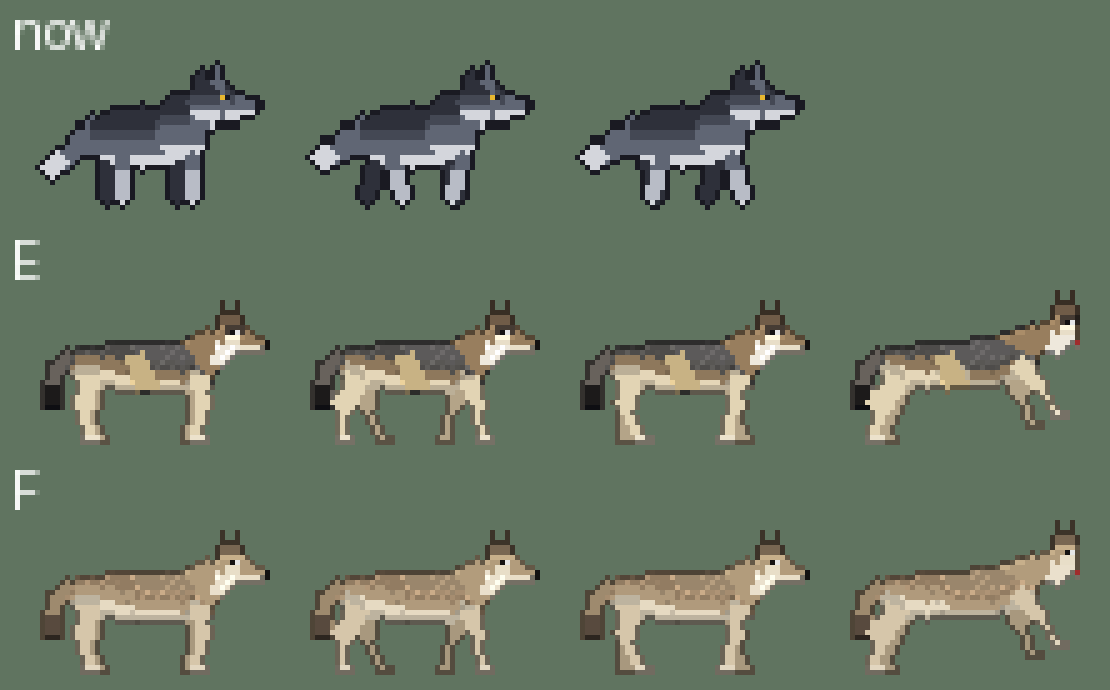
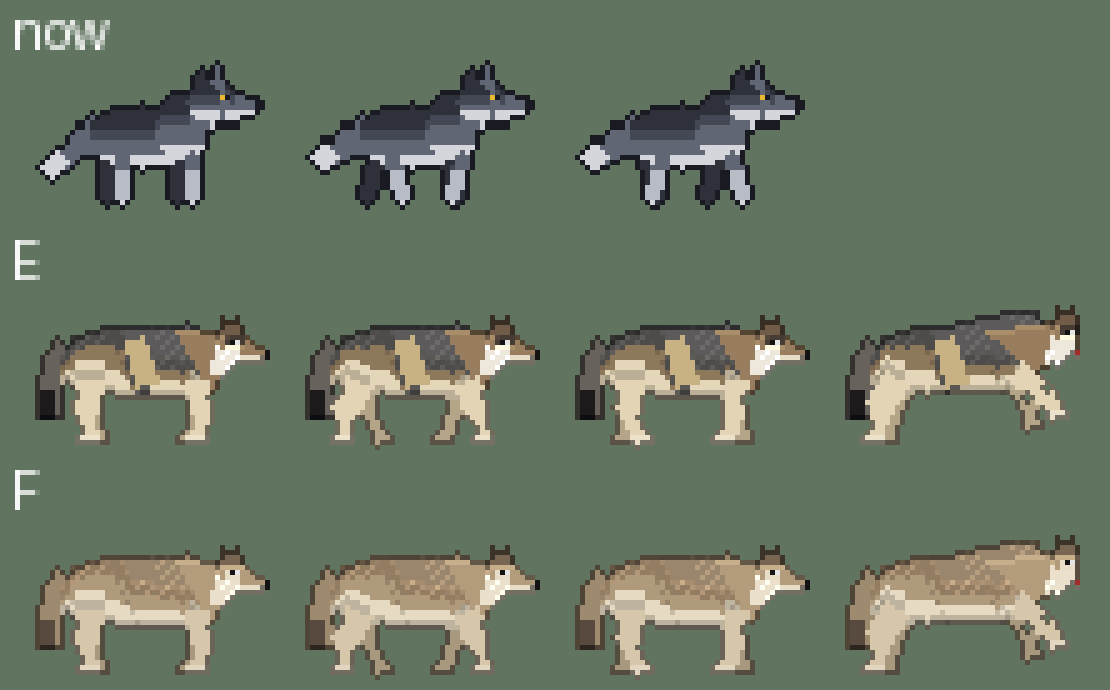
灰狼候選 E、F 改厚實（胸深背寬、腿與尾巴粗）、頭放低到背線附近
Claude-Session: https://claude.ai/code/session_01HkqM82v9towmCBuEomSQC3

diff --git a/arts/art_wolf_v2_2026-10-13/gen_wolf_variants.py b/arts/art_wolf_v2_2026-10-13/gen_wolf_variants.py
@@ -12,16 +12,16 @@ from PIL import Image, ImageDraw
 ARCH = 'arts/art_wolf_v2_2026-10-13/'
 
 BASE = dict(
-    # 正常灰狼的均衡比例：身體長、頭約身體長的四成且和背部差不多高、脖子短粗、耳朵小、腿長約等於胸深
+    # 正常灰狼的均衡比例、厚實：胸深背寬、腿與尾巴粗、脖子粗短，頭低（頭頂約和背線同高）
     frame=(48, 32), ground=30, split=28, file='wolf',
-    body=[(7, 15), (9, 11), (15, 10), (26, 10), (31, 9), (35, 10), (37, 15), (36, 19), (30, 20), (17, 20), (9, 19)],
-    neck=[(30, 10), (35, 6), (38, 11), (36, 17)],
-    head=[(35, 7), (38, 5), (41, 5), (43, 6), (46, 8), (47, 9), (46, 11), (42, 11), (38, 11), (35, 10)],
-    jaw=[(42, 10), (46, 10), (45, 11), (42, 11)],
-    ears=[[(37, 6), (38, 1), (40, 5)], [(39, 5), (41, 1), (42, 5)]],
-    eye=(41, 7), nose=(47, 9),
-    legs=[('far', (31, 17), 4, 3, 1), ('far', (13, 17), 5, 3, -1), ('near', (33, 17), 4, 3, 1), ('near', (11, 17), 5, 3, -1)],
-    paw=2, tail=[(8, 12), (5, 15), (4, 19), (4, 23)], tail_w=5, tail_tip=3)
+    body=[(6, 14), (8, 9), (14, 7), (26, 7), (31, 6), (36, 8), (38, 13), (37, 19), (31, 21), (17, 21), (9, 20), (6, 18)],
+    neck=[(29, 8), (36, 7), (39, 14), (36, 20)],
+    head=[(35, 9), (38, 7), (41, 7), (43, 8), (46, 10), (47, 11), (46, 13), (42, 13), (38, 14), (35, 12)],
+    jaw=[(42, 12), (46, 12), (45, 13), (42, 13)],
+    ears=[[(37, 8), (38, 4), (40, 7)], [(39, 7), (41, 4), (42, 7)]],
+    eye=(41, 9), nose=(47, 11),
+    legs=[('far', (31, 18), 4, 4, 1), ('far', (13, 18), 5, 4, -1), ('near', (33, 18), 5, 4, 1), ('near', (11, 18), 6, 4, -1)],
+    paw=2, tail=[(7, 11), (4, 15), (3, 20), (3, 25)], tail_w=6, tail_tip=3)
 
 
 def shift(sp, dx):
@@ -60,8 +60,8 @@ def variant(colors, belly, back, patches, **extra):
 
 
 # 臉頰與喉部的淡色（跟著頭）、眉上的深色（跟著頭）
-CHEEK = [(37, 9), (41, 10), (41, 11), (38, 14), (36, 13)]
-BROW = [(39, 6), (42, 6), (42, 7), (39, 7)]
+CHEEK = [(37, 10), (41, 11), (41, 13), (38, 16), (36, 15)]
+BROW = [(39, 8), (42, 8), (42, 9), (39, 9)]
 
 VARIANTS = {
     'A': variant({BODY: (150, 126, 96), HEAD: (138, 118, 92), EAR: (96, 84, 72), LEG: (222, 206, 176), FARLEG: (176, 160, 134),
@@ -87,13 +87,13 @@ VARIANTS = {
 
 # E：偏概念圖 1（對比強：深灰背鞍、褐色體側帶米黃色塊、米白四肢、白頰、耳緣深色、尾巴深色帶黑尖）
 # F：偏概念圖 3（柔和：灰褐偏黃、淡色腹部與四肢、背部稍深、白頰）
-SADDLE = [(20, 10), (31, 9), (35, 10), (36, 13), (30, 14), (22, 13)]
+SADDLE = [(18, 7), (31, 6), (36, 8), (37, 12), (30, 13), (20, 11)]
 VARIANTS = {
     'E': lower_head(variant({BODY: (142, 120, 92), HEAD: (152, 126, 94), EAR: (112, 92, 72), LEG: (226, 212, 180),
                              FARLEG: (180, 164, 136), PAW: (236, 226, 204), MUZZLE: (232, 222, 200), TAIL: (104, 98, 92),
                              TAILTIP: (28, 26, 26)},
                             belly=(228, 214, 184), back=(78, 76, 74),
-                            patches=[((92, 90, 90), SADDLE, False), ((200, 178, 132), [(19, 13), (22, 12), (25, 19), (21, 20)], False),
+                            patches=[((92, 90, 90), SADDLE, False), ((200, 178, 132), [(19, 10), (22, 9), (25, 18), (21, 19)], False),
                                      ((238, 232, 220), CHEEK, True), ((70, 60, 52), BROW, True)]), 1),
     'F': lower_head(variant({BODY: (176, 154, 124), HEAD: (178, 156, 124), EAR: (120, 102, 82), LEG: (214, 198, 170),
                              FARLEG: (168, 152, 126), PAW: (226, 214, 192), MUZZLE: (232, 222, 200), TAIL: (158, 138, 110),
